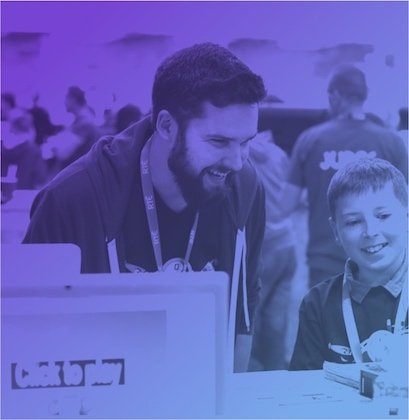
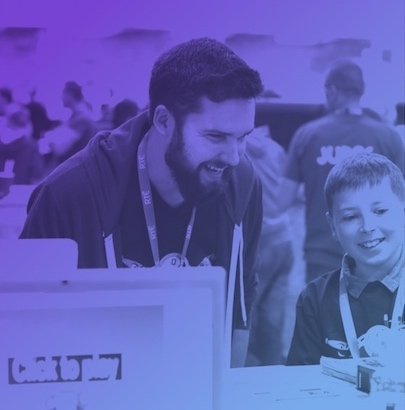
Mailing section ui fix (#22)
* Wrap section within full width container

* Reposition image

* Crop the image

* Move image to be a background, remove flex properties

diff --git a/src/assets/scss/components/_mailing-list.scss b/src/assets/scss/components/_mailing-list.scss
@@ -1,56 +1,48 @@
 .mailing-wrapper {
-  display: flex;
-  flex-direction: column;
+  background-color: $ncce-purple;
+  background-image: none;
+  margin: 0;
+
   @include govuk-media-query($from: tablet) {
-    flex-direction: row;
+    background-image: url(/assets/images/stay-up-to-date2.jpg);
+    background-position: center right;
+    background-repeat: no-repeat;
+    background-size: auto;
+  }
+
+  .govuk-main-wrapper {
+    background-color: $ncce-purple;
+
+    @include govuk-media-query($from: tablet) {
+      clip-path: polygon(0% 0%, 50% 0%, 100% 100%, 0% 100%);
+    }
+
+    @include govuk-media-query($from: desktop) {
+      clip-path: polygon(0% 0%, 85% 0%, 100% 100%, 0% 100%);
+    }
   }
 }
 
 .mailing-content {
-  background-color: $ncce-purple;
-  clip-path: polygon(0% 0%, 100% 0%, 100% 100%, 0% 87%);
   flex-basis: 80%;
   flex-grow: 2;
   flex-shrink: 1;
-  height: 240px;
-
-  @include govuk-media-query($from: tablet) {
-    clip-path: polygon(0% 0%, 86% 0%, 100% 100%, 0% 100%);
-  }
+  padding-bottom: 1.5rem;
+  padding-top: 1.5rem;
 
   .govuk-button {
     background-color: $ncce-pink;
     box-shadow: 0 2px 0 $ncce-dark-pink;
+    font-weight: bold;
   }
+
   .govuk-label {
-    color: $ncce-white !important;
+    color: $ncce-white;
     font-weight: bold;
   }
 }
 
 .mailing-heading,
 .mailing-body {
-  color: $ncce-white !important;
-}
-
-.mailing-image {
-  flex-basis: 50%;
-  flex-grow: 1;
-  flex-shrink: 2;
-  margin-bottom: 4rem;
-  margin-left: 0;
-  margin-top: -5rem;
-  img {
-    width: 100%;
-  }
-  @include govuk-media-query($from: tablet) {
-    flex-basis: 30%;
-    height: 360px;
-    margin-bottom: 0;
-    margin-left: -200px;
-    margin-top: 0;
-    img {
-      height: 360px;
-    }
-  }
+  color: $ncce-white;
 }
